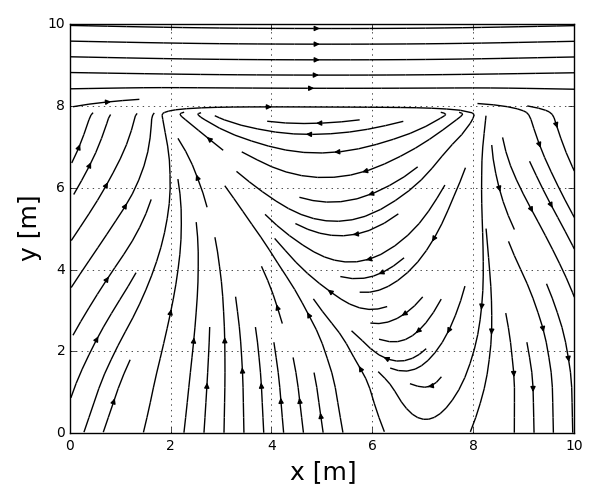
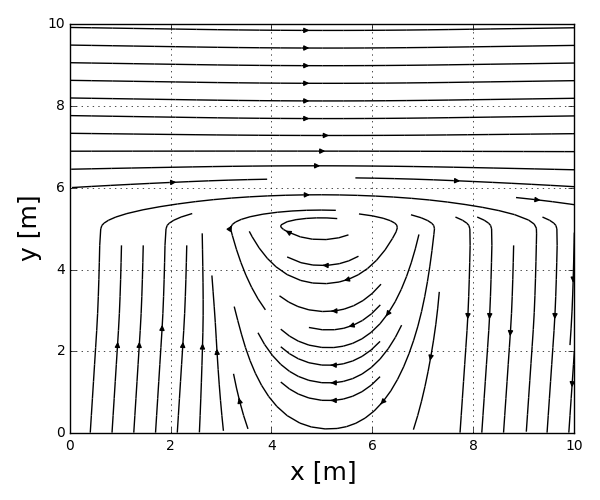
added new features

Changed region(s): [[0.12, 0.03, 0.96, 0.87], [0.63, 0.84, 0.66, 0.87]]

diff --git a/src/functions/solutionMethod.py b/src/functions/solutionMethod.py
@@ -24,7 +24,7 @@ def nondimensionalize(inputDict, idomain, iflow, itime):
       Uref = flowVars.Uref
       timeVars.t = timeVars.t * Uref / Lref
       timeVars.dt = timeVars.dt * Uref / Lref
-      timeVars.dTmax = timeVars.dTmax * Uref / Lref
+      timeVars.dtInit = timeVars.dtInit * Uref / Lref
       
 
 def dimensionalize(inputDict, idomain, iflow, itime):
@@ -48,7 +48,7 @@ def dimensionalize(inputDict, idomain, iflow, itime):
       Uref = flowVars.Uref
       timeVars.t = timeVars.t * Lref / Uref
       timeVars.dt = timeVars.dt * Lref / Uref
-      timeVars.dTmax = timeVars.dTmax * Lref / Uref
+      timeVars.dtInit = timeVars.dtInit * Lref / Uref
 
 def populateFluxVectors(pCorr,inputDict):
    # Make sure that all the flux vectors' elements should be evaluated 
@@ -91,21 +91,23 @@ def populateFluxVectors(pCorr,inputDict):
       FDM.D[2] = flowVars.v
 
 
-def updateQvector(inputDict, dt, nSub):
+def updateQvector(inputDict, dt, nSub, pCorr):
    imax = int(inputDict['iDim'])
    jmax = int(inputDict['jDim'])
 
    for n in range(3):
-      if n == 0: 
+      
+      if n == 0:
          # if True, the flux vector will have non-zero value at boundary
          # in order to update the primative variable at such boundary.
-         #updateBoundary = True
-         updateBoundary = False
+         updateBoundary = True
+         #updateBoundary = False
       else:
          updateBoundary = False
       # clean Q vector to store new values
       FDM.Q[n] = np.zeros((imax,jmax))
       if nSub == 0:
+         if pCorr == 1: updateBoundary = True
          # Add convective flux in x-direction with E vector
          FDM.Q[n] += centralFiniteDifference(-FDM.E[n],'x',1,updateBoundary)
          # Add convective flux in y-direction with F vector
@@ -134,10 +136,12 @@ def centralFiniteDifference(phi, direction, nOrder, updateBoundary):
    if nOrder == 1:
       # x-derivative
       if direction == 'x':
-         for j in range(jmax-1):
+         for j in range(jmax):
             if updateBoundary == False and j == 0: continue
+            if updateBoundary == False and j == jmax-1: continue
             for i in range(imax-1):
                if updateBoundary == False and i == 0: continue
+               if updateBoundary == False and i == imax-1: continue
                # if current node is located at boundary, forward or backward difference is used. (First order)
                if i == 0:
                   # forward difference
@@ -149,10 +153,12 @@ def centralFiniteDifference(phi, direction, nOrder, updateBoundary):
                   f[i,j] = 0.5 * (phi[i+1,j] - phi[i-1,j]) / dx
       # y-derivative
       if direction == 'y':
-         for i in range(imax-1):
+         for i in range(imax):
             if updateBoundary == False and i == 0: continue
-            for j in range(jmax-1):
+            if updateBoundary == False and i == imax-1: continue
+            for j in range(jmax):
                if updateBoundary == False and j == 0: continue
+               if updateBoundary == False and j == jmax-1: continue
                # if current node is located at boundary, forward or backward difference is used. (First order)
                if j == 0:
                   # forward difference
@@ -182,11 +188,12 @@ def centralFiniteDifference(phi, direction, nOrder, updateBoundary):
 
    return f
 
-def updateTimeStep(inputDict):
+def updateTimeStep(inputDict,nIter):
    imax = int(inputDict['iDim'])
    jmax = int(inputDict['jDim'])
    Cr   = float(inputDict['Courant'])
    pCorr = float(inputDict['pCorr'])
+  
    if pCorr != 1:
       # Artificial speed of sound
       beta = float(inputDict['Beta'])
@@ -196,7 +203,9 @@ def updateTimeStep(inputDict):
 
    dx   = domainVars.dx
    dy   = domainVars.dy
-   dt   = timeVars.dTmax
+   dt   = 0.25 * flowVars.Re * min(domainVars.dx, domainVars.dy) ** 2
+   #if nIter == 1:
+   #   dt = timeVars.dtInit
    for j in range(jmax-1):
       if j == 0: continue
       for i in range(imax-1):
@@ -264,32 +273,16 @@ def updatePressureBC(imax, jmax):
    flowVars.p[0,jmax-1] = flowVars.p[1,jmax-2]
    flowVars.p[imax-1,jmax-1] = flowVars.p[imax-2,jmax-2]
 
-def updatePrimitiveVars(nOrderTime,imax,jmax,dt):
+def updatePrimitiveVars(pCorr,imax,jmax,dt):
 
    # update primative vector U
-   if nOrderTime == 1 or nIter == 1:
-      for j in range(jmax):
-         for i in range(imax):
-            flowVars.p[i,j] += dt * FDM.Q[0][i,j]
-            flowVars.u[i,j] += dt * FDM.Q[1][i,j]
-            flowVars.v[i,j] += dt * FDM.Q[2][i,j]
-
-   if nOrderTime == 2:
-      if nIter > 1:
-         # New values: n+1 time level
-         for j in range(jmax):
-            for i in range(imax):
-               pNew[i,j] = pOld[i,j] + 2.0*dt * FDM.Q[0][i,j]
-               uNew[i,j] = uOld[i,j] + 2.0*dt * FDM.Q[1][i,j]
-               vNew[i,j] = vOld[i,j] + 2.0*dt * FDM.Q[2][i,j]
-      # Old values: n-1 time level
-      pOld = flowVars.p
-      uOld = flowVars.u
-      vOld = flowVars.v
-      if nIter > 1:
-         flowVars.p = pNew
-         flowVars.u = uNew
-         flowVars.v = vNew
+   for j in range(jmax-1):
+      if j == 0: continue
+      for i in range(imax-1):
+         if i == 0: continue
+         if pCorr != 1: flowVars.p[i,j] += dt * FDM.Q[0][i,j]
+         flowVars.u[i,j] += dt * FDM.Q[1][i,j]
+         flowVars.v[i,j] += dt * FDM.Q[2][i,j]
 
 
 

diff --git a/src/functions/timeIntegrate.py b/src/functions/timeIntegrate.py
@@ -14,12 +14,7 @@ def timeIntegrate(inputDict):
    beta    = float(inputDict['Beta'])
    residualMin = float(inputDict['residualMin'])
    nIterWrite  = int(inputDict['nIterWrite'])
-   nOrderTime  = int(inputDict['nOrderTime'])
 
-   if nOrderTime == 2:
-      pNew = np.zeros((imax,jmax))
-      uNew = np.zeros((imax,jmax))
-      vNew = np.zeros((imax,jmax))
 
    # initialize residual variables for p, u, and v
    residualInit = np.zeros(3)
@@ -52,18 +47,22 @@ def timeIntegrate(inputDict):
       populateFluxVectors(pCorr,inputDict)
       
       # find dt with stability condition
-      dt = updateTimeStep(inputDict)
+      dt = updateTimeStep(inputDict,nIter)
 
       for n in range(nSubIter):
          if n == 1:
+            # Second step for projection method
             # pressure correction: Run laplacian equation for pressure
             pressureCorrect(inputDict, dt)
 
+         # if it is projection method, u* and v* will be updated at first and
+         # u^(n+1) and v^(n+1) will be later updated at second step.
+         # Q vector represents RHS terms when time-integrating U vector.
          # update Q vector for explicit time integration
-         updateQvector(inputDict, dt, n)
+         updateQvector(inputDict, dt, n, pCorr)
 
          # update new time level of p, u, v in primitive variable form
-         updatePrimitiveVars(nOrderTime,imax,jmax,dt)
+         updatePrimitiveVars(pCorr,imax,jmax,dt)
 
       # update boundary condition for pressure only
       updatePressureBC(imax, jmax)
@@ -78,8 +77,11 @@ def timeIntegrate(inputDict):
 
       # dimensionless time increment because all the time variables have been non-dimensionalized above.
       t += dt
-      MachX, MachY = computeMaximumMach(imax, jmax, beta)
-      print "|- nIter = %s" % nIter, ", t = %.6f" % t, ", dt = %.6f" % dt, ", Maximum Mach_x = %.4f" % MachX, ", Maximum Mach_y = %.4f" % MachY, ", u-residual = %.5f" % resNorm
+      if pCorr != 1:
+         MachX, MachY = computeMaximumMach(imax, jmax, beta)
+         print "|- nIter = %s" % nIter, ", t = %.6f" % t, ", dt = %.6f" % dt, ", Maximum Mach_x = %.4f" % MachX, ", Maximum Mach_y = %.4f" % MachY, ", u-residual = %.5f" % resNorm
+      elif pCorr == 1:
+         print "|- nIter = %s" % nIter, ", t = %.6f" % t, ", dt = %.6f" % dt, ", u-residual = %.5f" % resNorm
 
       if (nIter % nIterWrite == 0):
          dimensionalize(inputDict, 1, 1, 0)

diff --git a/src/functions/pCorrection.py b/src/functions/pCorrection.py
@@ -21,9 +21,10 @@ def pressureCorrect(inputDict, dt):
       # run with point-iteration method: will update new pressure at new time level
       #flowVars.p, residual = pointIterJacobi(flowVars.p, RHS, imax, jmax, alpha)
       flowVars.p, res = pointIterJacobi(flowVars.p, RHS, imax, jmax, alpha)
+      #updatePressureBC(imax, jmax)
+
       residual = computeResidual(flowVars.p, RHS, imax, jmax)
       # update boundary condition for pressure only
-      #updatePressureBC(imax, jmax)
       # compute residual at initial sate
       #if niter == 0: residualInit = max(1e-99,residual)
       residual = residual / residualInit
@@ -34,6 +35,7 @@ def pressureCorrect(inputDict, dt):
 
 def pointIterJacobi(phi, RHS, imax, jmax, alpha):
    newPhi = phi
+   #newPhi = np.zeros((imax,jmax))
    residual = 0.0
    dx = domainVars.dx
    dy = domainVars.dy

diff --git a/src/functions/init.py b/src/functions/init.py
@@ -5,7 +5,7 @@ def initSimulationVars(inputDict):
    print '# Initializing flow variables...'
    imax = int(inputDict['iDim'])
    jmax = int(inputDict['jDim'])
-   dTmax = float(inputDict['dTmax'])
+   dtInit = float(inputDict['dtInit'])
 
    flowVars.nu   = float(inputDict['nu'])
    flowVars.Uref = float(inputDict['uUp'])
@@ -16,7 +16,7 @@ def initSimulationVars(inputDict):
    flowVars.v    = np.zeros((imax,jmax))
 
    # initial time step
-   timeVars.dTmax = dTmax
+   timeVars.dtInit = dtInit
 
    # Evaluate reference Re number
    flowVars.Re = flowVars.Uref * domainVars.Lref / flowVars.nu

diff --git a/src/functions/variables.py b/src/functions/variables.py
@@ -21,7 +21,7 @@ class flowVars:
 
 class timeVars:
    dt = 0.0
-   dTmax = 0.0
+   dtInit = 0.0
    t = 0.0
 
 class FDM:
